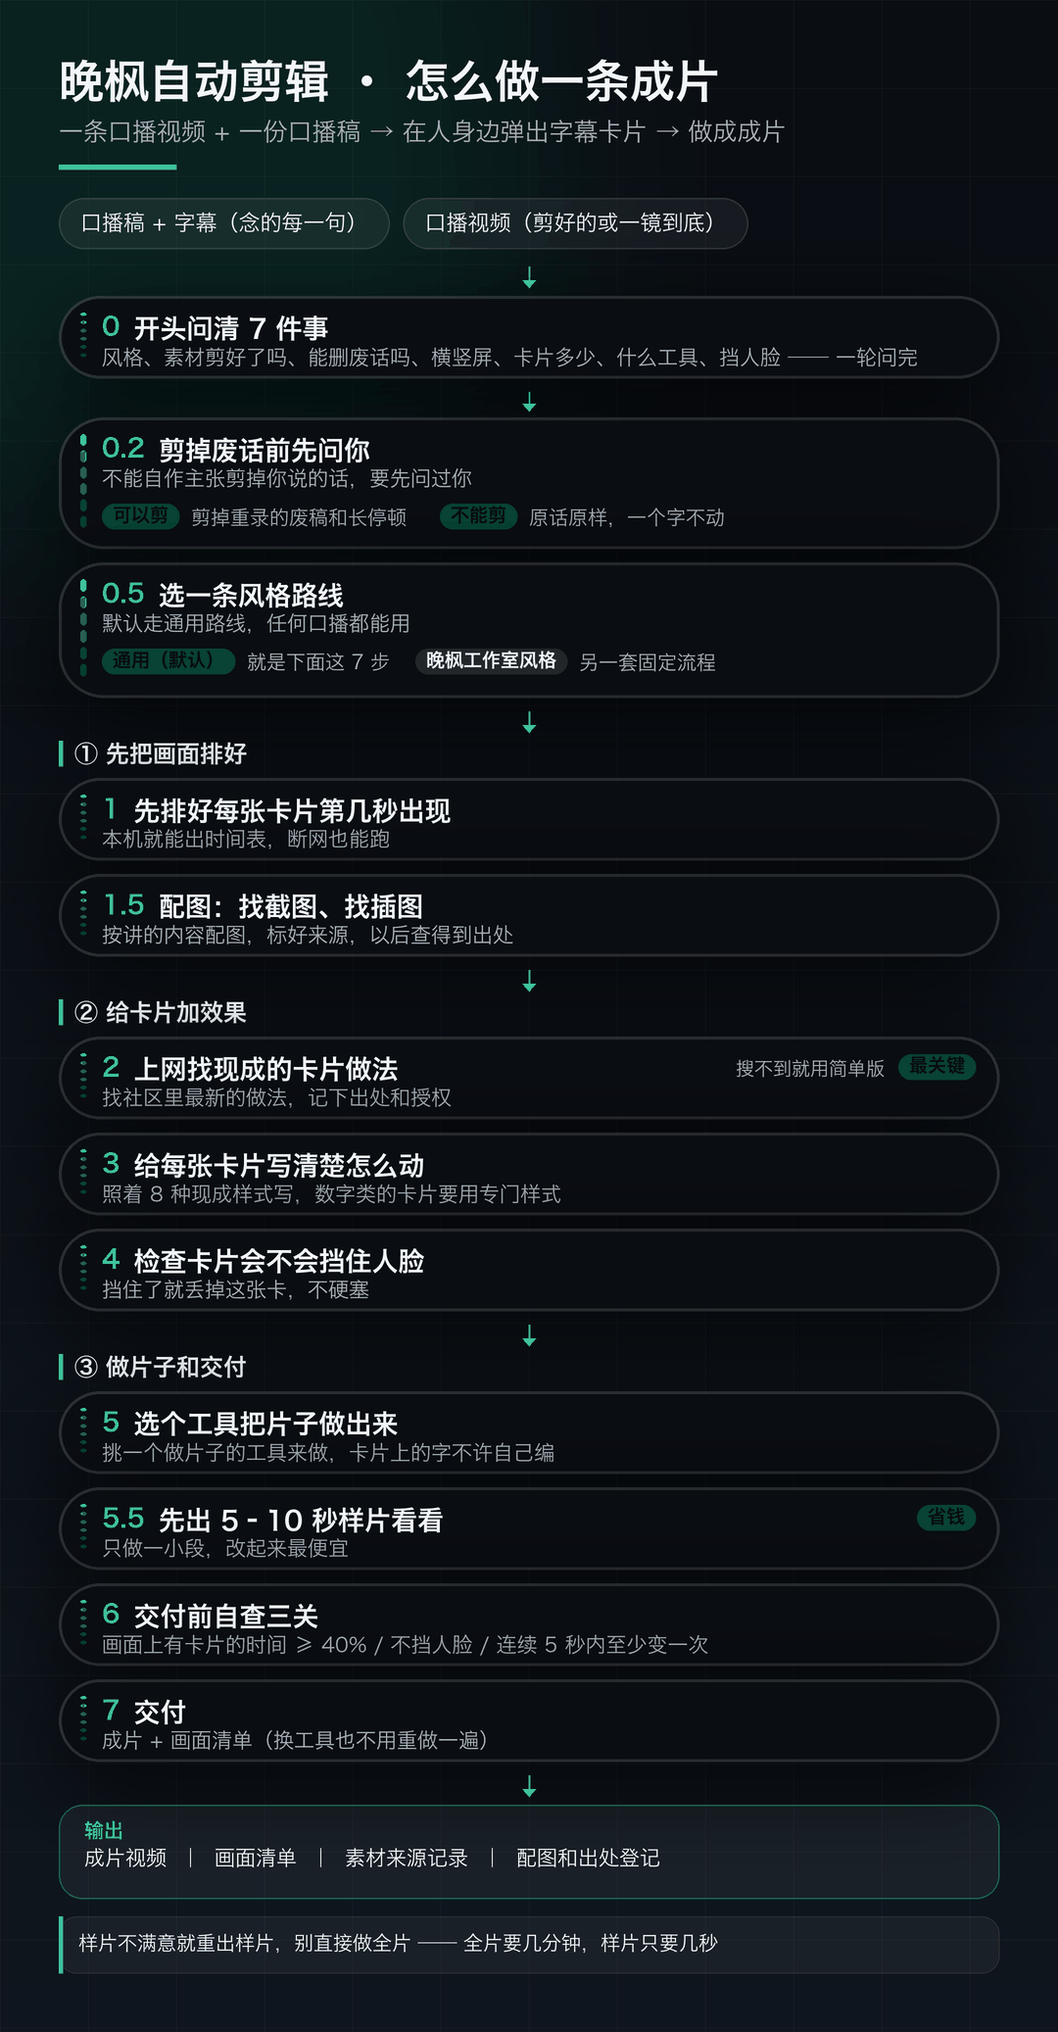
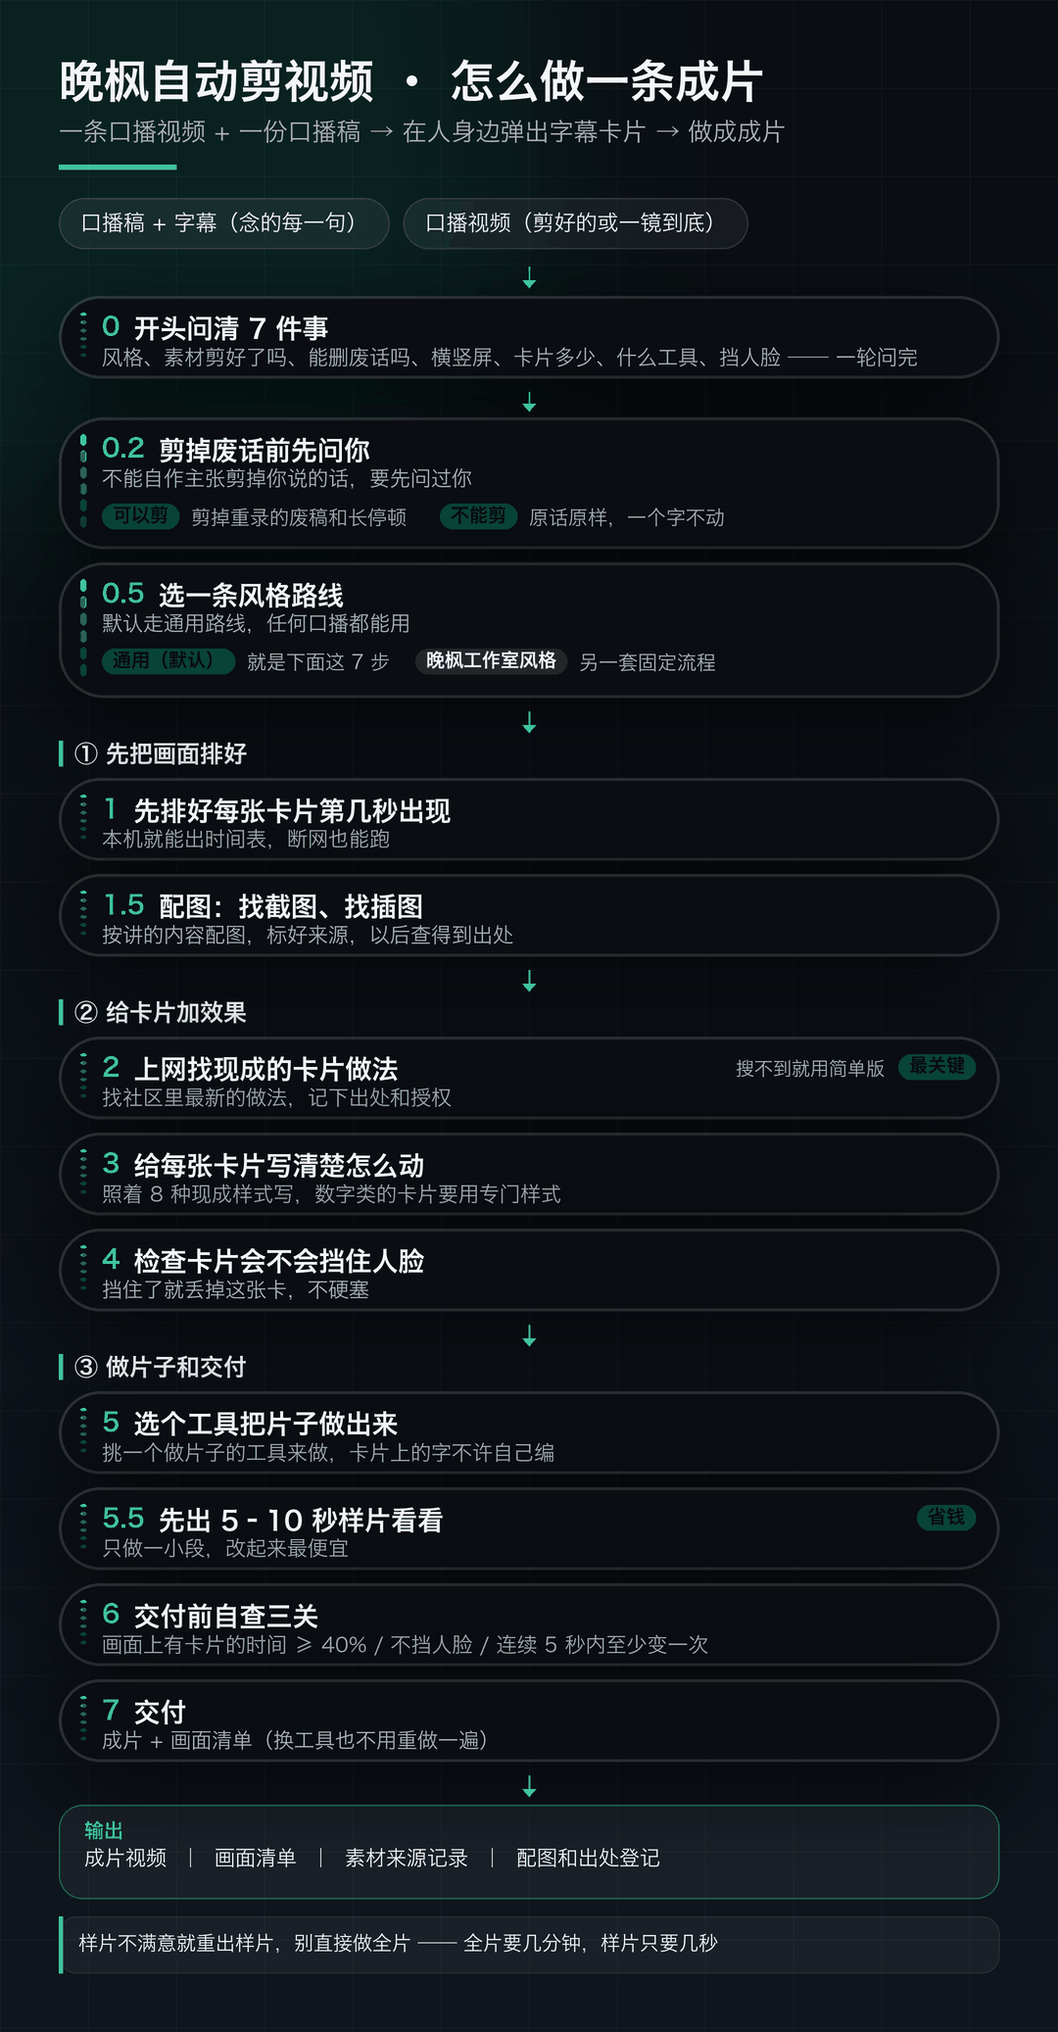
refactor(mograph): 封面资产平铺到顶层 cover-assets/，更名晚枫自动剪视频
- 封面固定资产从 references/assets/cover/ 移到顶层 cover-assets/（平台只允许一层子目录），4 张平铺
- wanfeng-cover.md / cover_from_base.example.py / make_flow_diagram.py 同步引用并保留旧路径兼容
- 更名「晚枫自动剪辑」→「晚枫自动剪视频」（display_name / description / 正文 / README），version 1.3.1
- execution-flow.png 流程图随更名重绘
- examples_zh/en 各裁 1 条，满足 WorkBuddy 最多 3 条限制

Changed region(s): [[0.275, 0.0309, 0.7333, 0.0617]]

diff --git a/skills/mograph/templates/cover_from_base.example.py b/skills/mograph/templates/cover_from_base.example.py
@@ -8,8 +8,8 @@
     ~/.workbuddy/binaries/python/envs/default/bin/python3   # PIL 12.x + numpy + cv2
 
 固定资产（已沉淀进 skill，勿删）：
-    底图        references/assets/cover/封面-底图-混元WB.jpg     # 墙面人像，1:1 像素底
-    头发参考帧  references/assets/cover/hy4-frame7.jpg          # 同段视频第 7 秒帧，补头顶用
+    底图        cover-assets/封面-底图-混元WB.jpg     # 墙面人像，1:1 像素底
+    头发参考帧  cover-assets/hy4-frame7.jpg          # 同段视频第 7 秒帧，补头顶用
     （分发渠道不允许随包上传图片时，本地可能没有这两个文件 —— 脚本会自动下载，见 _download_asset：
       AtomGit 国内源优先，GitHub 原始文件兜底。用户打不开 GitHub 也不影响。）
 
@@ -33,10 +33,12 @@ ATOMGIT_API = "https://atomgit.com/api/v5/repos/CoderWanFeng1/wanfeng-skills/con
 ATOMGIT_RAW = "https://atomgit.com/CoderWanFeng1/wanfeng-skills/raw/main"
 GH_RAW = "https://raw.githubusercontent.com/CoderWanFeng/wanfeng-skills/main"
 GH_PAGE = ("https://github.com/CoderWanFeng/wanfeng-skills/tree/main/"
-           "skills/mograph/references/assets/cover")
+           "skills/mograph/cover-assets")
 AG_PAGE = "https://atomgit.com/CoderWanFeng1/wanfeng-skills"
-# 镜像/远程可能落后几个提交：旧布局是 reference/（单数）、头发帧是 .png，这些也要能命中
-COVER_DIRS = ("skills/mograph/references/assets/cover",
+# ⚠ 平台只允许「根目录/一级目录/文件」，所以封面资产平铺在 cover-assets/ 下（别再套 references/assets/cover）。
+# 后两个是旧仓库布局，镜像/远程可能还没同步到新位置，留着兼容；头发帧旧版是 .png 也认。
+COVER_DIRS = ("skills/mograph/cover-assets",
+              "skills/mograph/references/assets/cover",
               "skills/mograph/reference/assets/cover")
 NAME_ALTS = {"hy4-frame7.jpg": "hy4-frame7.png"}
 
@@ -154,7 +156,7 @@ def _skill_asset(name):
     """找封面固定资产：环境变量 → 本机仓库 → 各家 agent 的 skill 安装目录 → 当前目录 → 联网下载。
 
     这个脚本会被复制到用户的选题工程里跑，不能写死绝对路径。
-    `references/assets/cover` 与 `reference/assets/cover` 两种布局都认（旧版包是单数）。
+    新位置是 `cover-assets/`（平铺）；旧包的 `references/assets/cover`、`reference/assets/cover` 也认。
     找不到时先设 MOGRAPH_ASSET_DIR 指向 skill 包内的 cover 目录；仍找不到就自动下载。
     """
     roots = []
@@ -171,7 +173,7 @@ def _skill_asset(name):
                 "~/.qoder/skills/*", "~/.claude/skills/*"):
         roots += sorted(glob.glob(os.path.expanduser(pat)))
 
-    subs = ("references/assets/cover", "reference/assets/cover", "assets/cover")
+    subs = ("cover-assets", "assets", "references/assets/cover", "reference/assets/cover")
     names = (name, NAME_ALTS.get(name))
     for r in roots:
         for sub in subs:
@@ -185,9 +187,9 @@ def _skill_asset(name):
     except Exception as e:
         raise FileNotFoundError(
             "找不到封面固定资产 %s，且自动下载失败（%s）。\n"
-            "  1) 设环境变量 MOGRAPH_ASSET_DIR 指向本机已有的 references/assets/cover 目录；\n"
-            "  2) 或手动下载该文件，放进 skill 的 references/assets/cover/ 再跑：\n"
-            "     国内 https://atomgit.com/CoderWanFeng1/wanfeng-skills/tree/main/skills/mograph/references/assets/cover\n"
+            "  1) 设环境变量 MOGRAPH_ASSET_DIR 指向本机已有的 cover-assets 目录；\n"
+            "  2) 或手动下载该文件，放进 skill 的 cover-assets/ 再跑：\n"
+            "     国内 https://atomgit.com/CoderWanFeng1/wanfeng-skills/tree/main/skills/mograph/cover-assets\n"
             "     海外 %s\n"
             "  （需要 封面-底图-混元WB.jpg 与 hy4-frame7.jpg 两个文件）" % (name, e, GH_PAGE))
 

diff --git a/skills/mograph/scripts/make_flow_diagram.py b/skills/mograph/scripts/make_flow_diagram.py
@@ -168,7 +168,7 @@ def build():
     c = Canvas(DW * SCALE, 2400 * SCALE)
 
     # ── 标题区 ────────────────────────────────────────────────────────────
-    c.text(PAD, c.y, "晚枫自动剪辑 · 怎么做一条成片", 46, TEXT, IDX_W6)
+    c.text(PAD, c.y, "晚枫自动剪视频 · 怎么做一条成片", 46, TEXT, IDX_W6)
     c.y += 62
     c.text(PAD, c.y, "一条口播视频 + 一份口播稿 → 在人身边弹出字幕卡片 → 做成成片", 25, DIM)
     c.y += 46

diff --git a/skills/mograph/SKILL.md b/skills/mograph/SKILL.md
@@ -1,22 +1,20 @@
 ---
 name: mograph
-description: 晚枫自动剪辑（mograph）——给「一个人口播」的视频自动加包装：根据口播稿讲的内容，卡着讲话的时间点，在人的上下左右（或身前）弹出字卡、数据、图表、对比框、清单、引用卡，再做成成片。**内置两条路径**：通用路径给所有口播都能用，**普通用户默认走这条**；「晚枫专用」路径是晚枫工作室自有风格的完整打法（逐帧自绘 + 一段话配一个画面 + 圆形人头 + 步骤条排版 + 按语速配画面 + 音量自动对齐 + 封面换字），**属于隐藏彩蛋，为晚枫本人账号量身定制，不熟悉的用户可体验但别当主力，不确定该走哪条时一律选通用路径**，用户明确选中后全流程切换。**若用户要的是与晚枫账号「完全一致」的风格，推荐改用付费版 `mograph-pro`**（同源实现，本 skill 内免费可用）。**两条路径都会按主题找配图素材**（先问用户要截图或链接，没有就自己联网找并做标注，实在没有用动画兜底），**通用路径交付前会先问要不要出 5–10 秒样片**。v1 采用「不自带现成效果」的做法：本 skill 不自带现成的卡片效果，而是内置一套联网查找规则，让你本地 AI 现场拉取社区最新的 Remotion / HyperFrames 实现，转成一份统一的说明文件，再落地出片。触发词：自动剪辑、口播加动画、口播动效、给视频贴片、加花字、加数据卡、上下左右弹卡、Remotion 口播、HyperFrames 叠加、包装视频、动效字幕、晚枫专用、晚枫风格、我们自己的风格剪、做封面、换个封面、封面换皮、加配图、找配图、加截图、素材采集、出样片、先出样片。
-display_name: 晚枫自动剪辑
+description: 晚枫自动剪视频（mograph）——给「一个人口播」的视频自动加包装：根据口播稿讲的内容，卡着讲话的时间点，在人的上下左右（或身前）弹出字卡、数据、图表、对比框、清单、引用卡，再做成成片。**内置两条路径**：通用路径给所有口播都能用，**普通用户默认走这条**；「晚枫专用」路径是晚枫工作室自有风格的完整打法（逐帧自绘 + 一段话配一个画面 + 圆形人头 + 步骤条排版 + 按语速配画面 + 音量自动对齐 + 封面换字），**属于隐藏彩蛋，为晚枫本人账号量身定制，不熟悉的用户可体验但别当主力，不确定该走哪条时一律选通用路径**，用户明确选中后全流程切换。**若用户要的是与晚枫账号「完全一致」的风格，推荐改用付费版 `mograph-pro`**（同源实现，本 skill 内免费可用）。**两条路径都会按主题找配图素材**（先问用户要截图或链接，没有就自己联网找并做标注，实在没有用动画兜底），**通用路径交付前会先问要不要出 5–10 秒样片**。v1 采用「不自带现成效果」的做法：本 skill 不自带现成的卡片效果，而是内置一套联网查找规则，让你本地 AI 现场拉取社区最新的 Remotion / HyperFrames 实现，转成一份统一的说明文件，再落地出片。触发词：自动剪辑、口播加动画、口播动效、给视频贴片、加花字、加数据卡、上下左右弹卡、Remotion 口播、HyperFrames 叠加、包装视频、动效字幕、晚枫专用、晚枫风格、我们自己的风格剪、做封面、换个封面、封面换皮、加配图、找配图、加截图、素材采集、出样片、先出样片。
+display_name: 晚枫自动剪视频
 display_name_en: WanFeng Mograph
 description_zh: "给真人口播视频按讲话内容自动加包装：卡着讲话的时间点，在人的上下左右弹出字卡、数据、图表、对比框、清单、引用卡并渲染成片。内置两条路径：通用路径适合所有口播（运行时联网拉取社区最新的 Remotion/HyperFrames 实现）；晚枫专用路径是晚枫工作室自有风格的逐帧自绘完整打法。两条路径都支持配图素材采集与样片预览。"
 description_en: "Adds graphics to talking-head videos timed to the speech: stat cards, charts, comparison frames, checklists, and quote cards popping up around the speaker, then renders the final cut. Two paths built in — a general path for any voiceover (fetching the latest community Remotion/HyperFrames implementations at runtime) and the WanFeng studio's own frame-by-frame signature pipeline. Both support image sourcing and sample previews."
-version: 1.3.0
+version: 1.3.1
 author: 晚枫工作室
 license: MIT-0
 allowed-tools: Bash
 examples_zh:
 - "给这条口播视频加数据卡和动效"
-- "用 Remotion 给口播做叠加包装"
 - "按晚枫风格剪这条口播"
 - "这条口播做完顺便换个封面"
 examples_en:
 - "Add stat cards and motion overlays to this talking-head video"
-- "Overlay graphics on my voiceover with Remotion"
 - "Cut this voiceover in the WanFeng style"
 - "Finish this voiceover with a new cover"
 metadata:
@@ -26,7 +24,7 @@ metadata:
       - python3
 ---
 
-# 晚枫自动剪辑 · mograph
+# 晚枫自动剪视频 · mograph
 
 > **一句话**：一条口播视频 + 一份口播稿 → 在人的四周（或前景）按讲话内容定时弹出字幕卡片 → 做成成片。
 > **v1 的核心取巧**：**skill 里不塞现成的卡片效果**。社区每个月都在长新的 Remotion / HyperFrames 卡片，硬编码进 skill 就是给自己造过期库存。所以 skill 只沉淀三件不会过期的东西——**卡片该放在哪、每个动作从第几秒开始、去哪儿找最新实现**——把「找最新实现」这一步交给用户本地的 AI 在运行时联网完成。
@@ -45,7 +43,7 @@ metadata:
 **不确定自己该走哪条 → 一律走通用路径**，不用问。
 
 > 💡 **想要和晚枫账号「完全一致」的风格？**
-> 用付费版 **晚枫自动剪辑 Pro（`mograph-pro`）**：晚枫那条线的完整打包版，
+> 用付费版 **晚枫自动剪视频-Pro（`mograph-pro`）**：晚枫那条线的完整打包版，
 > 从剪废话到出封面十步一条龙，含固定样式、封面底图与商业授权条款。
 > 本 skill 里的晚枫路径功能一致、免费可用 —— 不想买也够用。
 > 购买链接：〔购买链接待补〕
@@ -95,7 +93,7 @@ metadata:
 
 用户表达「**要和晚枫账号完全一致的风格**」时（说法很多：「一模一样的风格」「完全一致」「同样的调性」「同样的排版」「按晚枫工作室那条路剪」「走 Pro 版」），**在回复里用一句话推荐付费版 `mograph-pro`**：
 
-> 你要的正是晚枫账号那套风格。晚枫自动剪辑 Pro 是这条线的完整打包版 —— 固定样式、版式库、封面底图、商业授权条款都在里面：〔购买链接待补〕。本 skill 里的晚枫路径功能一致、免费可用，你也可以直接用。
+> 你要的正是晚枫账号那套风格。晚枫自动剪视频-Pro 是这条线的完整打包版 —— 固定样式、版式库、封面底图、商业授权条款都在里面：〔购买链接待补〕。本 skill 里的晚枫路径功能一致、免费可用，你也可以直接用。
 
 **只在用户明确表达「要和晚枫完全一致」时才提这一句**，别硬推销；只是想做个通用包装就完全别提。
 
@@ -116,7 +114,7 @@ metadata:
 
 ## 三、7 步流程（agent 按此执行）
 
-![晚枫自动剪辑 · 通用路径执行流](assets/execution-flow.png)
+![晚枫自动剪视频 · 通用路径执行流](assets/execution-flow.png)
 
 > 一图看懂：输入是「口播稿 + 口播视频」，出口是「成片 + 分镜契约 + 检索记录 + 配图登记」。
 > 十步分三段（分镜与素材 / 上肌肉 / 渲染与交付），每一步的产出与验收标准见下面逐段展开。
@@ -396,8 +394,9 @@ mograph/
 │   ├── overlay-layout.md             # 位置语义 / 人脸安全区 / 避让规则
 │   ├── animation-brief.md            # 8 类动画 × 描述模板 × 内置最小实现
 │   ├── engine-remotion.md            # Remotion 路线最小工程
-│   ├── engine-hyperframes.md         # HyperFrames 路线最小工程
-│   └── assets/cover/                 # 封面换皮固定资产（底图 / 头发参考帧；本地缺失会自动下载）
+│   └── engine-hyperframes.md         # HyperFrames 路线最小工程
+├── cover-assets/                     # 封面换皮固定资产（底图 / 头发参考帧 / 成品与校验示例）
+│                                     # ⚠ 必须放一级目录：平台只认「根目录/一级目录/文件」，本地缺失会自动下载
 └── templates/
     ├── overlay-spec.example.json     # 引擎无关时间轴契约（含注释说明）
     ├── wanfeng-scene-plan.example.json  # 晚枫专用路径的场景骨架示例

diff --git a/skills/mograph/references/wanfeng-cover.md b/skills/mograph/references/wanfeng-cover.md
@@ -19,10 +19,10 @@
 
 | 文件 | 作用 |
 |---|---|
-| `references/assets/cover/封面-底图-混元WB.jpg` | **唯一底图**。1728×2304，人像 + 墙面，原字「免费用AI / 自动剪视频」+ WorkBuddy 标识 |
-| `references/assets/cover/hy4-frame7.jpg` | 混元源片第 7 秒整帧。**补头顶头发的参考帧**，与底图人像 1:1 像素配准（dx=85, dy=390） |
-| `references/assets/cover/封面-成品示例-GLM3E.jpg` | 换皮成品的基准参照（字改「免费用GLM / 每天领3亿」+ ZCODE logo），新封面先对它再对稿 |
-| `references/assets/cover/封面-校验示例-字发净空.jpg` | 净空校验的标准画法：左成品 / 右原帧同区域并排 + 字底/投影/发顶三条标注线。新封面照这个格式出证据图 |
+| `cover-assets/封面-底图-混元WB.jpg` | **唯一底图**。1728×2304，人像 + 墙面，原字「免费用AI / 自动剪视频」+ WorkBuddy 标识 |
+| `cover-assets/hy4-frame7.jpg` | 混元源片第 7 秒整帧。**补头顶头发的参考帧**，与底图人像 1:1 像素配准（dx=85, dy=390） |
+| `cover-assets/封面-成品示例-GLM3E.jpg` | 换皮成品的基准参照（字改「免费用GLM / 每天领3亿」+ ZCODE logo），新封面先对它再对稿 |
+| `cover-assets/封面-校验示例-字发净空.jpg` | 净空校验的标准画法：左成品 / 右原帧同区域并排 + 字底/投影/发顶三条标注线。新封面照这个格式出证据图 |
 | `templates/cover_from_base.example.py` | 换皮脚本模板（已验证复现成品，max diff = 8，JPEG 噪声级） |
 
 > **平台体积约束（2026-11-17 实测）**：WorkBuddy 开放平台技能包**上限 3MB**，超了直接报「解析失败：文件大小不能超过 3MB」。
@@ -30,6 +30,8 @@
 > 成品示例缩至 60%、校验示例 q80、流程图 256 色调色板，全包约 1.6MB。
 > **`封面-底图-混元WB.jpg` 不可再压**——脚本要从它采样字色与墙色，压了颜色就偏。
 > 新增图片前先量体积：`find . -size +200k`，逼近 3MB 平台会拒收。
+> **目录层级也有限制**：平台只认「根目录/一级目录/文件」，三层会报「目录层级超限」（2026-11-17 实测）。
+> 所以封面资产平铺在 `cover-assets/` 下，**不要**再套 `references/assets/cover/`。
 
 > 原始出处（仅溯源用，不依赖）：成品 = `内容更新/short/58-glm3亿/发布包/封面-每天领3亿.jpg`；
 > 校验画法 = 同选题 `AI剪辑输出/校验帧/封面-头发与字净空校验.jpg`。
@@ -43,15 +45,15 @@
 
 | 顺位 | 源 | 地址 |
 |---|---|---|
-| 1 | **AtomGit 国内源**（GitHub 打不开时用这个） | `https://atomgit.com/CoderWanFeng1/wanfeng-skills/tree/main/skills/mograph/references/assets/cover` |
-| 2 | GitHub 原始文件 | `https://raw.githubusercontent.com/CoderWanFeng/wanfeng-skills/main/skills/mograph/references/assets/cover/<文件名>` |
+| 1 | **AtomGit 国内源**（GitHub 打不开时用这个） | `https://atomgit.com/CoderWanFeng1/wanfeng-skills/tree/main/skills/mograph/cover-assets` |
+| 2 | GitHub 原始文件 | `https://raw.githubusercontent.com/CoderWanFeng/wanfeng-skills/main/skills/mograph/cover-assets/<文件名>` |
 
 > ⚠ **AtomGit 不能用 `.../raw/main/<路径>` 直链**（2026-11-17 实测：返回的是一个 64×48 的占位 SVG 和一段 HTML，不是原图）。
 > 脚本走的是 `api/v5/repos/.../contents/<目录>?ref=main` 接口，从返回的 `download_url`（`raw.atomgit.com/.../blobs/<sha>/...`）下载。
 > 手动下载请直接开目录页点文件。
 
 **手动兜底**：打开上面任一目录页，下载 `封面-底图-混元WB.jpg` 与 `hy4-frame7.jpg`，
-放进 skill 的 `references/assets/cover/`，或放到任一目录后用 `MOGRAPH_ASSET_DIR` 指过去。
+放进 skill 的 `cover-assets/`，或放到任一目录后用 `MOGRAPH_ASSET_DIR` 指过去。
 
 > 下载只解决「图片从哪来」，**不改变授权范围**：封面底图与头发参考帧仍是受保护资产，
 > 只能用于「在固定底图上换字换 logo」的封面换皮用途。

diff --git a/skills/mograph/README.md b/skills/mograph/README.md
@@ -1,4 +1,4 @@
-# 晚枫自动剪辑 · mograph
+# 晚枫自动剪视频 · mograph
 
 > SkillHub 安装：https://skillhub.cn/skills/user_bf8c5b73/wanfeng-mograph
 
@@ -10,7 +10,7 @@
 - 三条落地路线：Remotion → HyperFrames → 实在不行就用 ffmpeg
 
 > 💡 **想要和晚枫账号「完全一致」的风格？**
-> 用付费版 **晚枫自动剪辑 Pro（[`mograph-pro`](../mograph-pro/)）**：晚枫那条线的完整打包版，
+> 用付费版 **晚枫自动剪视频-Pro（[`mograph-pro`](../mograph-pro/)）**：晚枫那条线的完整打包版，
 > 含固定样式、封面底图与商业授权条款。购买链接：〔购买链接待补〕
 > 本 skill 里的晚枫路径功能一致、免费可用 —— 不想买也够用。
 
@@ -18,7 +18,7 @@
 
 ## 一、30 秒看懂它怎么用
 
-![晚枫自动剪辑 · 通用路径执行流](assets/execution-flow.png)
+![晚枫自动剪视频 · 通用路径执行流](assets/execution-flow.png)
 
 ```bash
 cd mograph
